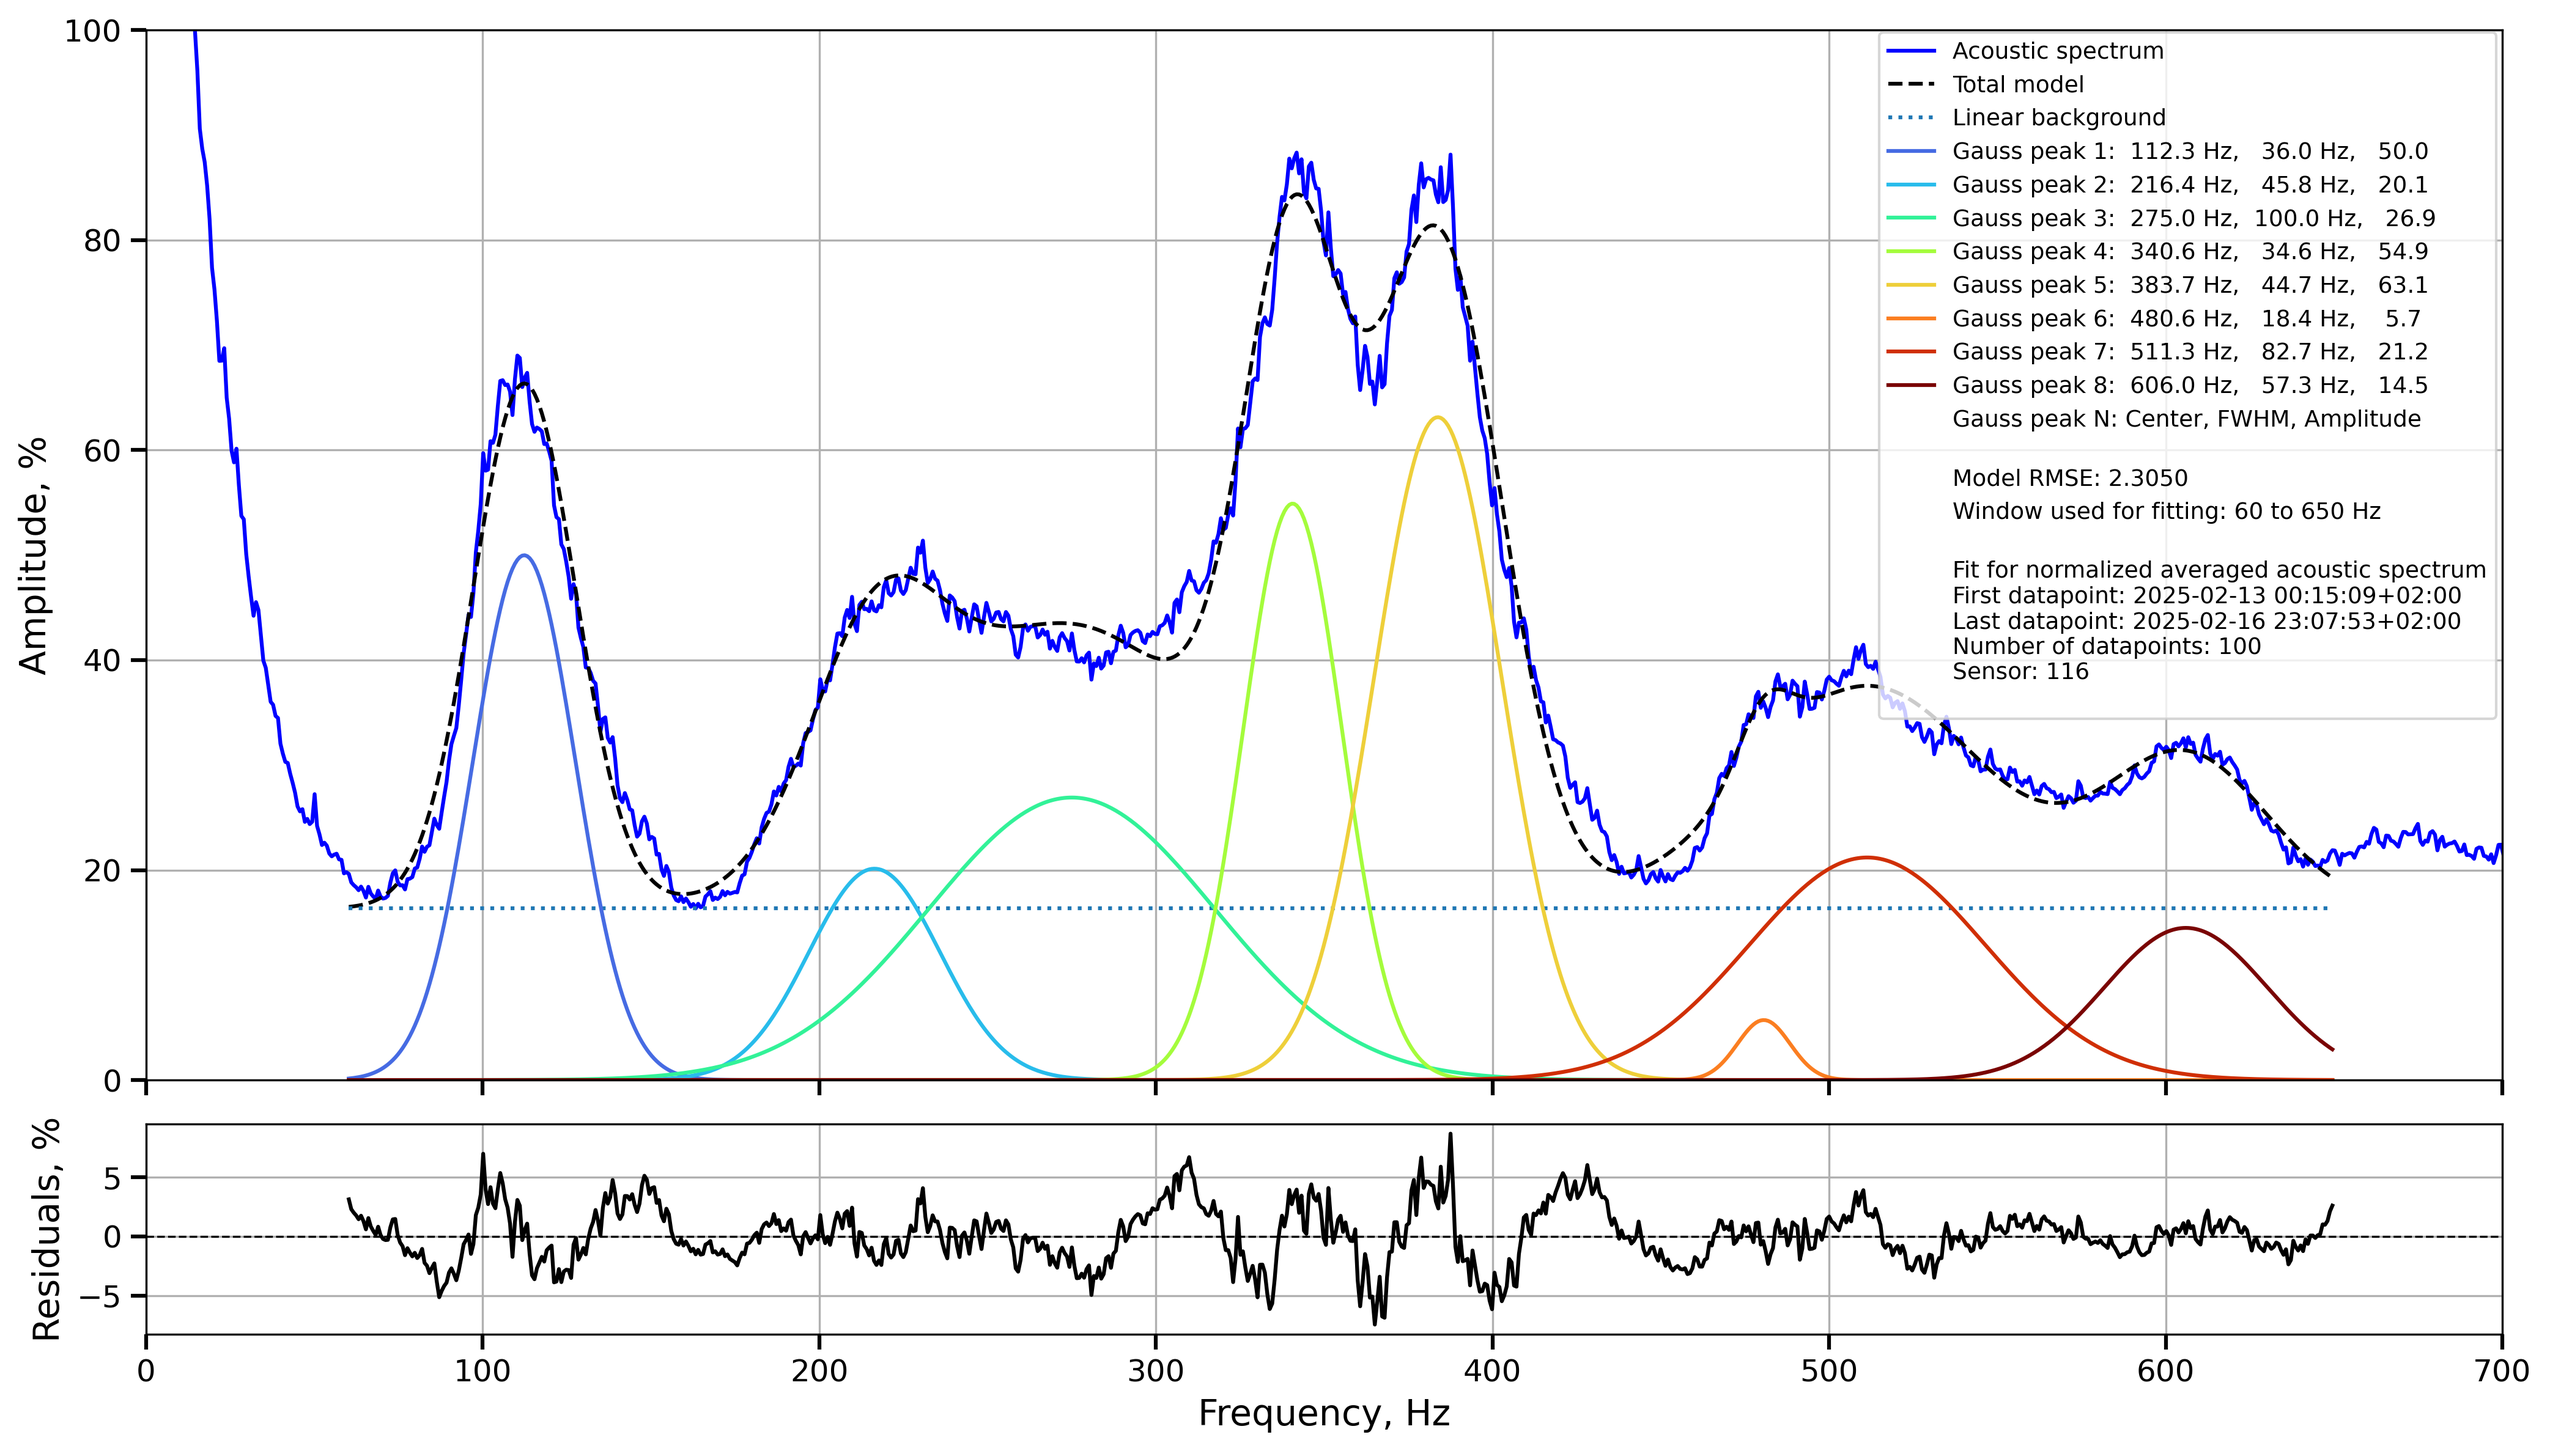
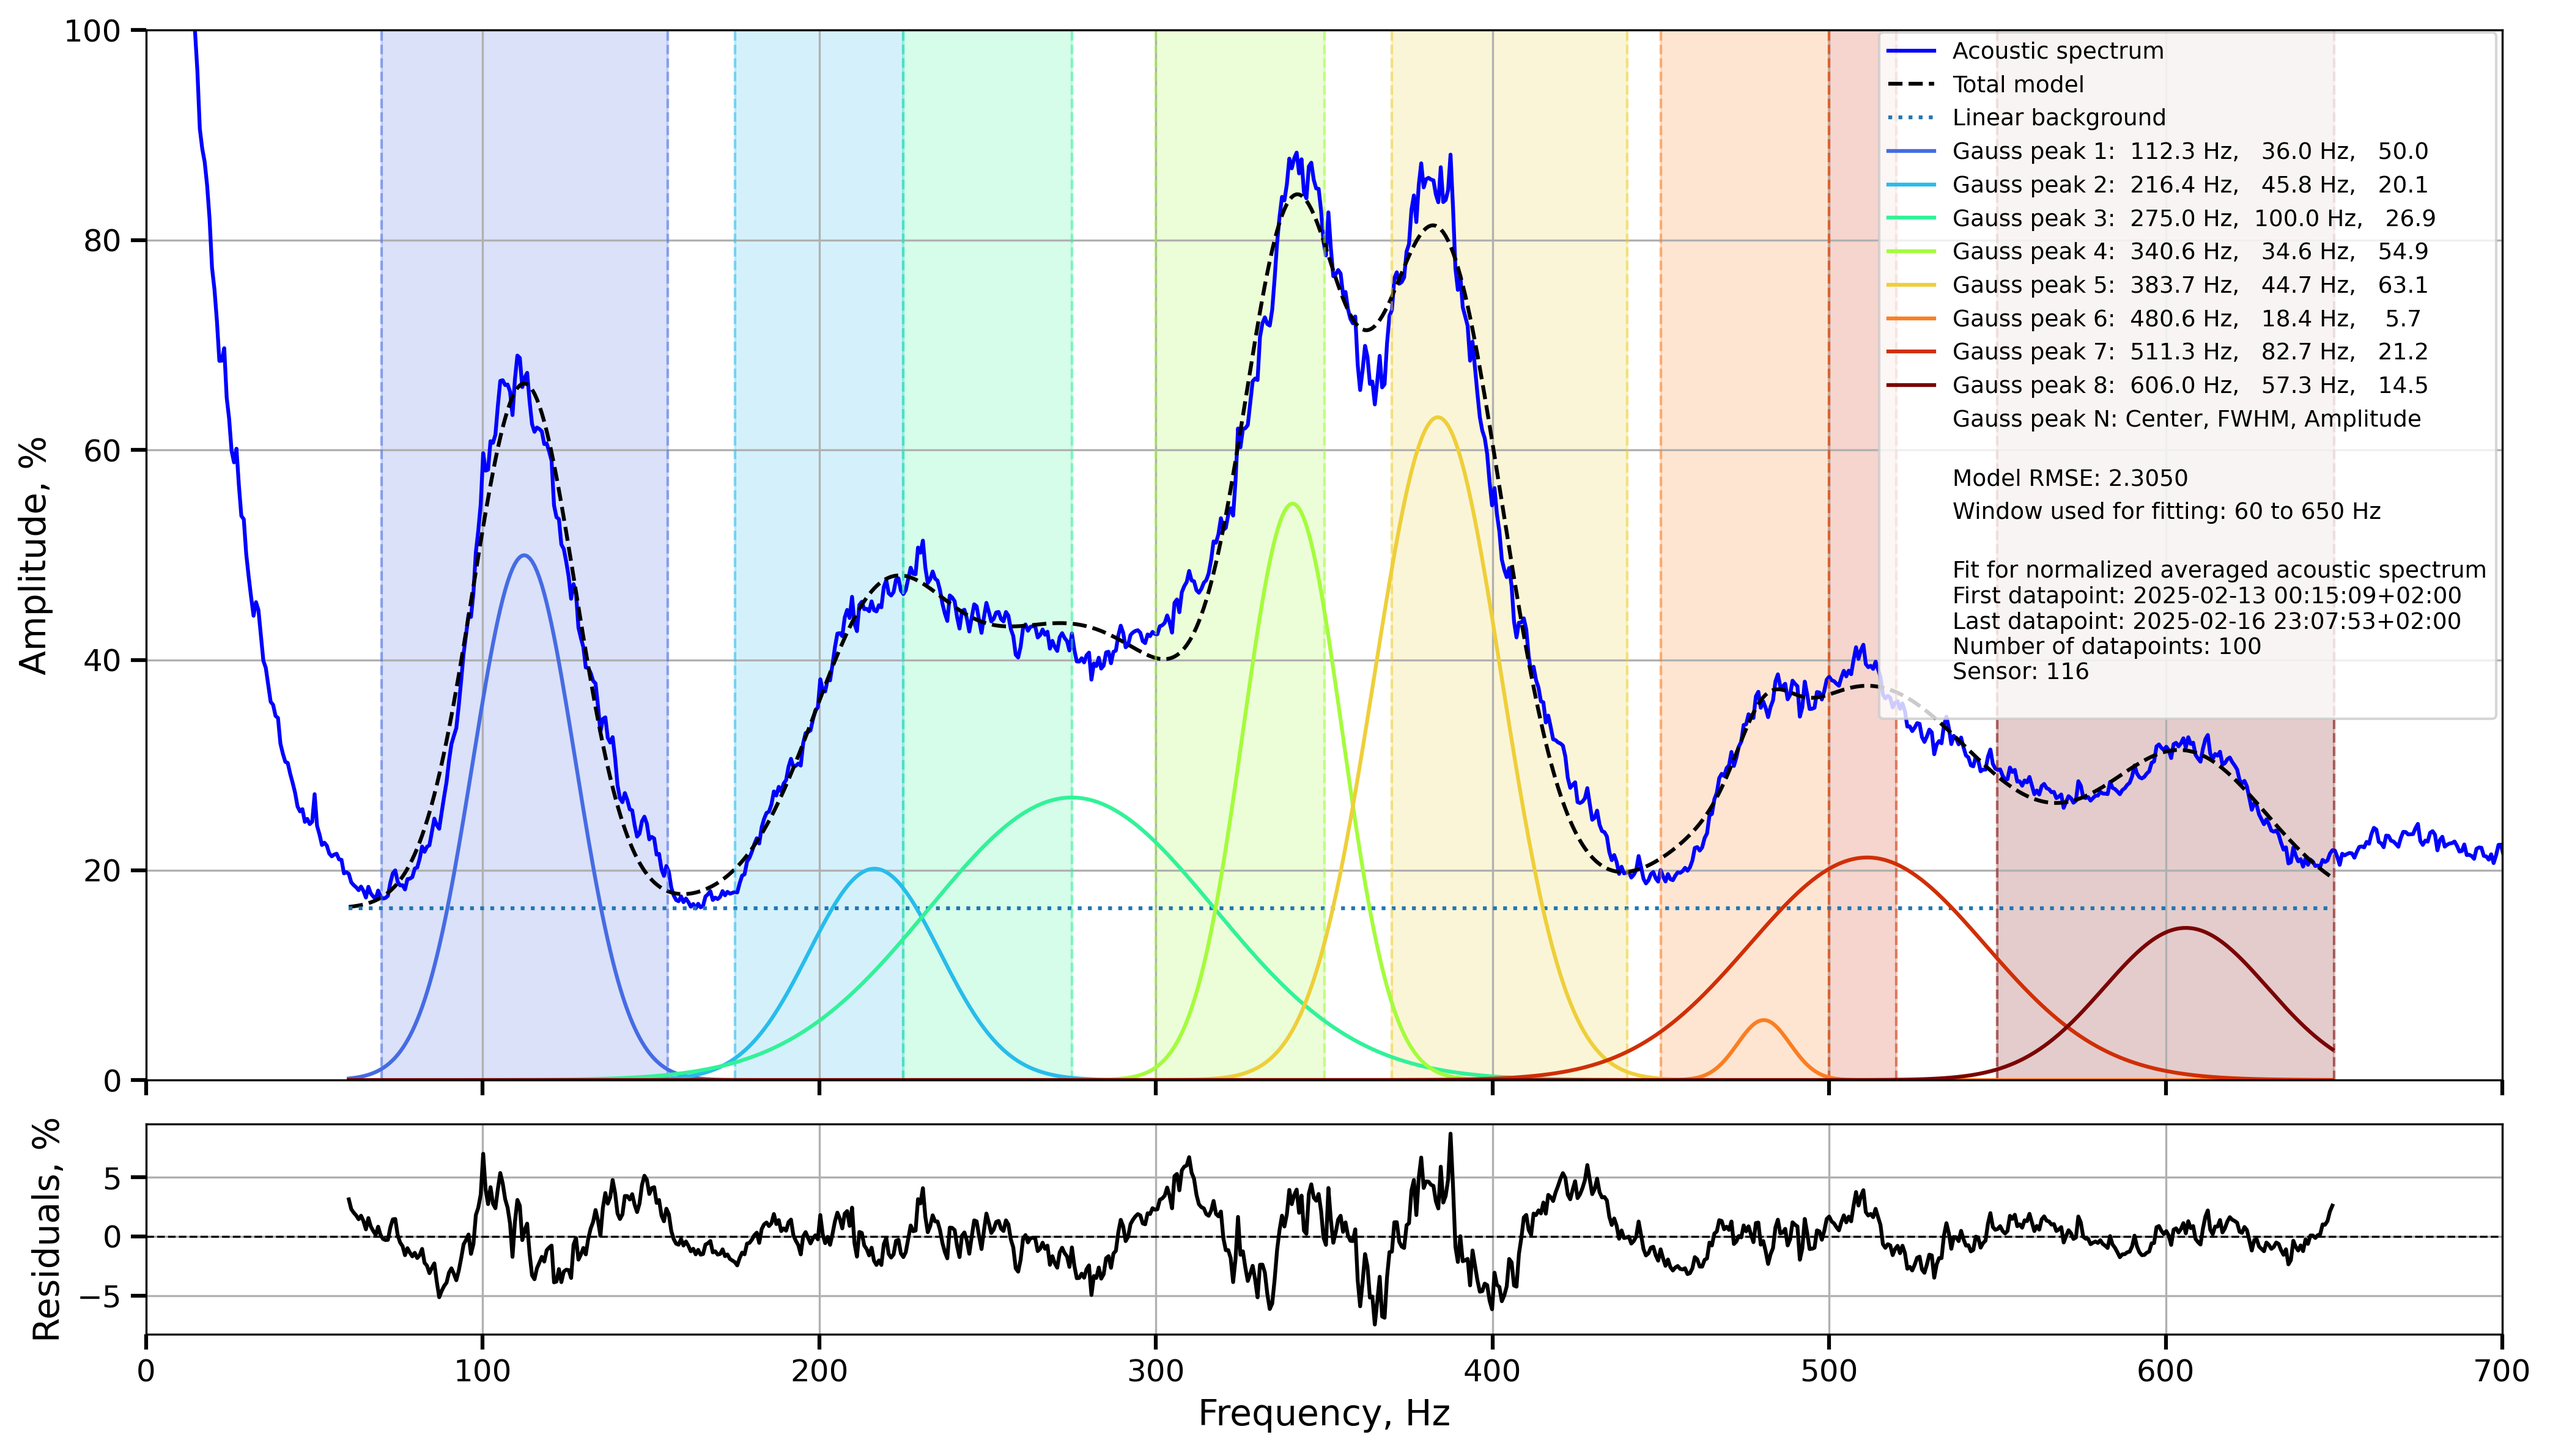
Colored rectangles for areas

diff --git a/gauss_plot.py b/gauss_plot.py
@@ -160,6 +160,17 @@ def plot_gaussians(ds, start, end, output_path, name_overide=None):
         # Legend patching
         p = result.params
         gauss_count = sum(1 for name in components.keys() if name.startswith('g'))
+        
+        # Rectangles
+        for i, cfg in enumerate(FITTING_MODEL):
+            if cfg['type'] == 'peak':
+                color = spectral_colormap(i / gauss_count)
+                ax1.axvspan(cfg['center_range'][0], cfg['center_range'][1], 
+                          alpha=0.2, color=color, label='_nolegend_')
+                ax1.axvline(cfg['center_range'][0], color=color, linestyle='--', alpha=0.5, linewidth=1)
+                ax1.axvline(cfg['center_range'][1], color=color, linestyle='--', alpha=0.5, linewidth=1)
+        
+        # Gaussian curves
         for i, (name, comp) in enumerate(components.items(), 1):
             if name.startswith('g'):
                 j = i - 1
